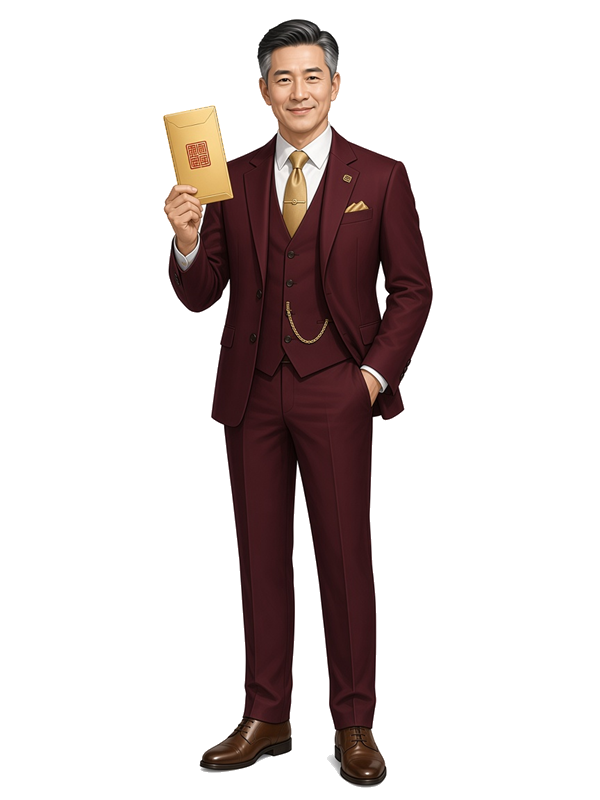
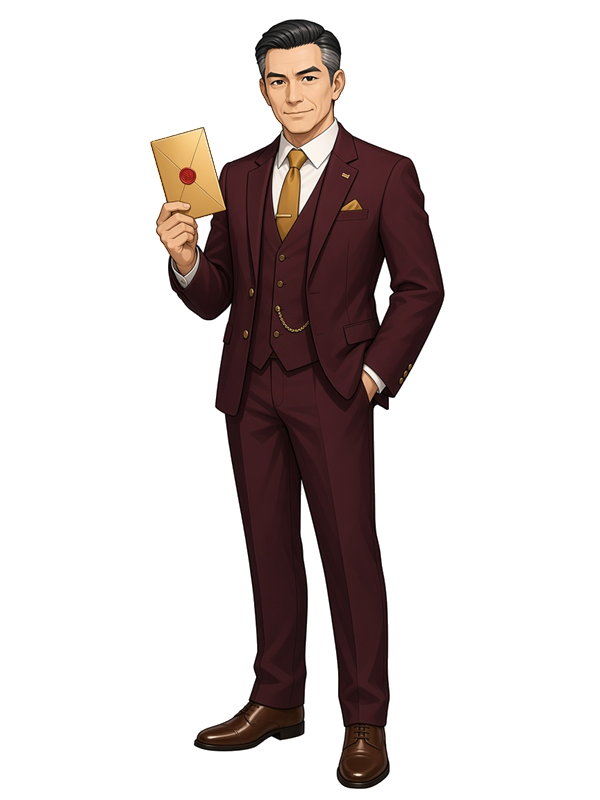
신화 6종 초상화를 애니풍 얼굴로 다시 그리고 머리카락 흰 배경 잔상 제거
천재 개발자는 짧은 머리, 글로벌 영업왕은 올림머리로 바꿔 머리카락 틈에 배경이 남지 않게 하고 스프라이트도 맞췄다.

Changed region(s): [[0.24, 0.0, 0.75, 1.0], [0.45, 0.5, 0.48, 0.5312]]

diff --git a/tools/gen_characters.py b/tools/gen_characters.py
@@ -784,7 +784,7 @@ CHARACTERS = {
                   top=("suit", "#1a1a22", "#f4f4f4", "#e8b52a", "stripe"), bottom=("pants", "#1a1a22"), shoes="#6a3a1a",
                   pocket_square=True, arms=("down", "hip"), props=["money_bag"], sparkle=True, watch=True),
     # 신화 (전설 + 다른 팀 전설 2명으로 각성)
-    "dv6_1": dict(skin=LIGHT, hair="#141318", hair_style="ponytail", glasses="round", iris="#3a2a22", mouth="smirk",
+    "dv6_1": dict(skin=LIGHT, hair="#141318", hair_style="messy", glasses="round", iris="#3a2a22", mouth="smirk",
                   top=("suit", "#1f2a3a", "#16151b"), bottom=("pants", "#16151b"), shoes="#f2f2f4", shoe_kind="sneaker",
                   arms=("pocket", "raise"), hologram=True, sparkle=True),
     "dv6_2": dict(skin=LIGHT, hair="#dfe3ea", hair_style="bob_messy", eyes="sharp", iris="#2fb3c4", mouth="smirk",
@@ -799,7 +799,7 @@ CHARACTERS = {
     "sl6_1": dict(skin=WARM, hair="#c9ccd4", hair_style="slicked", eyes="sharp", iris="#3a2a22", mouth="smirk", beard=True,
                   top=("suit", "#1a1a20", "#f4f6fa", "#d9a92a"), bottom=("pants", "#1a1a20"), pocket_square=True,
                   arms=("front", "raise"), props=["pen_note"], sparkle=True, watch=True),
-    "sl6_2": dict(skin=LIGHT, hair="#4a2e22", hair_style="ponytail", eyes="happy", mouth="smile",
+    "sl6_2": dict(skin=LIGHT, hair="#4a2e22", hair_style="slicked", eyes="happy", mouth="smile",
                   top=("blazer_f", "#f4f2ee", "#f4f6fa", "#2a3a6a"), bottom=("pants", "#f4f2ee"), shoes="#f4f4f4", shoe_kind="heel",
                   arms=("down", "raise"), props=["card"], sparkle=True),
 }
